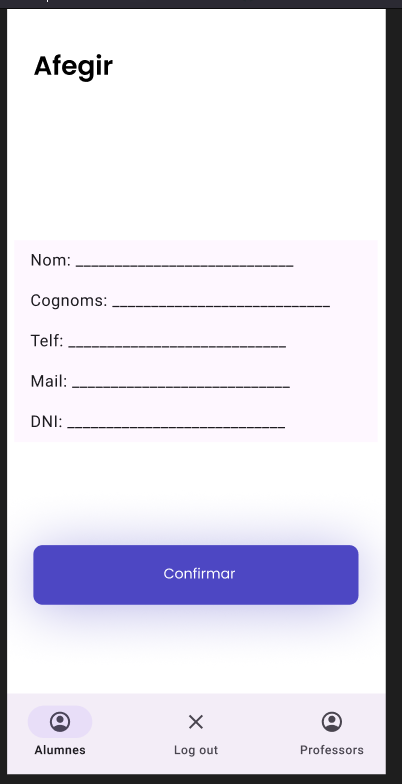
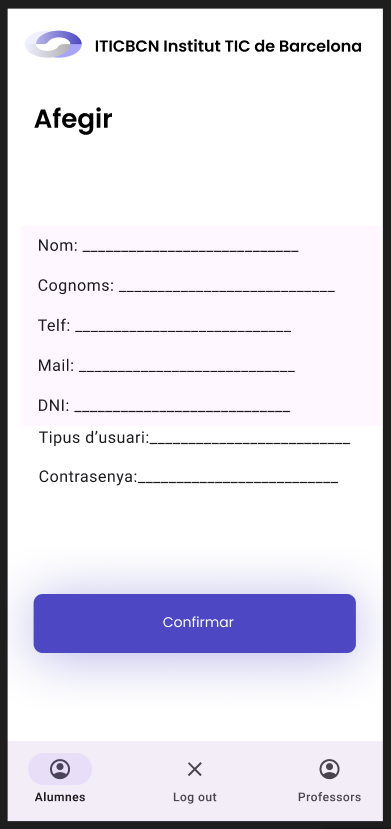
DAM fet

diff --git a/README.md b/README.md
@@ -243,4 +243,56 @@ La safata d'entrada és on estan els missatges que rep l'usuari.
 
 ## Les meves dades
 
-Les meves dades mostra les dades que guarda l'aplicació i te'l botó de log out per tancar sessió de l'aplicació.
+Les meves dades mostra les dades que guarda l'aplicació i te el botó de log out per tancar sessió de l'aplicació.
+
+![Les meves dades](./ImagesDamSprint2/lesmevesdades.png) 
+
+## Passar llista 
+
+La pàgina inicial de professor és la de passar llista, primer selecciona al grup i després mostra la llista d'alumnes. A la part inferior, hi ha una barra per poder canviar de pantalla, entre safata d'entrada, passar llista i l'horari.
+
+![passar llista](./ImagesDamSprint2/assistenciaProf.png) 
+
+![passar llista](./ImagesDamSprint2/assistenciaProf2.png) 
+
+## Safata d'entrada
+
+La safata d'entrada és on estan els missatges que rep l'usuari.
+
+![safata d'entrada](./ImagesDamSprint2/safataentradaProg.png)  
+
+## Horari
+
+L'horari mostra l'horari propi del  professor, també conté  el botó de log out per tancar sessió de l'aplicació.
+
+![Les meves dades](./ImagesDamSprint2/horariProf.png) 
+
+## Admin
+
+La pàgina inicial d'Administrador conté 2 botons, un per anar a la pàgina amb la llista alumnes i l'altre  per anar a la pàgina amb la llista de professors, la barra inferior conté 2 botons que tenen la mateixa funció que els 2 anteriors i un per tancar sessió.
+
+![Admin](./ImagesDamSprint2/adminLogin.png) 
+
+## LLista Alumnes
+
+La pàgina de la llista d'alumnes conté una llista de tots els usuaris de tipus alumne. Hi ha un botó per modificar els usuaris i un altre per afegir un usuari.
+
+![Alumne](./ImagesDamSprint2/adminALumn.png) 
+
+## LLista Professors
+
+La pàgina de la llista Professors conté una llista de tots els usuaris de tipus professor. Hi ha un botó per modificar els usuaris i un altre per afegir un usuari.
+
+![Professor](./ImagesDamSprint2/adminProf.png) 
+
+## Afegir
+
+Pagina per afegir un usuari.
+
+![afegir](./ImagesDamSprint2/afegir.png) 
+
+## Modificar
+
+Pagina per modiificar un usuari.
+
+![Modificar](./ImagesDamSprint2/modificar.png) 
